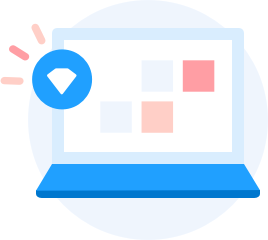
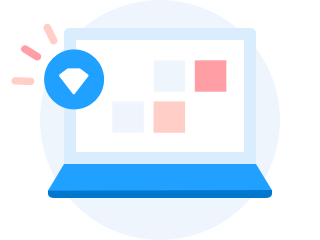
Homepage: replace index imgs

diff --git a/examples/pages/index.vue b/examples/pages/index.vue
@@ -84,7 +84,7 @@
     }
 
     img {
-      width: 120px;
+      width: 160px;
       height: 120px;
     }
   }
